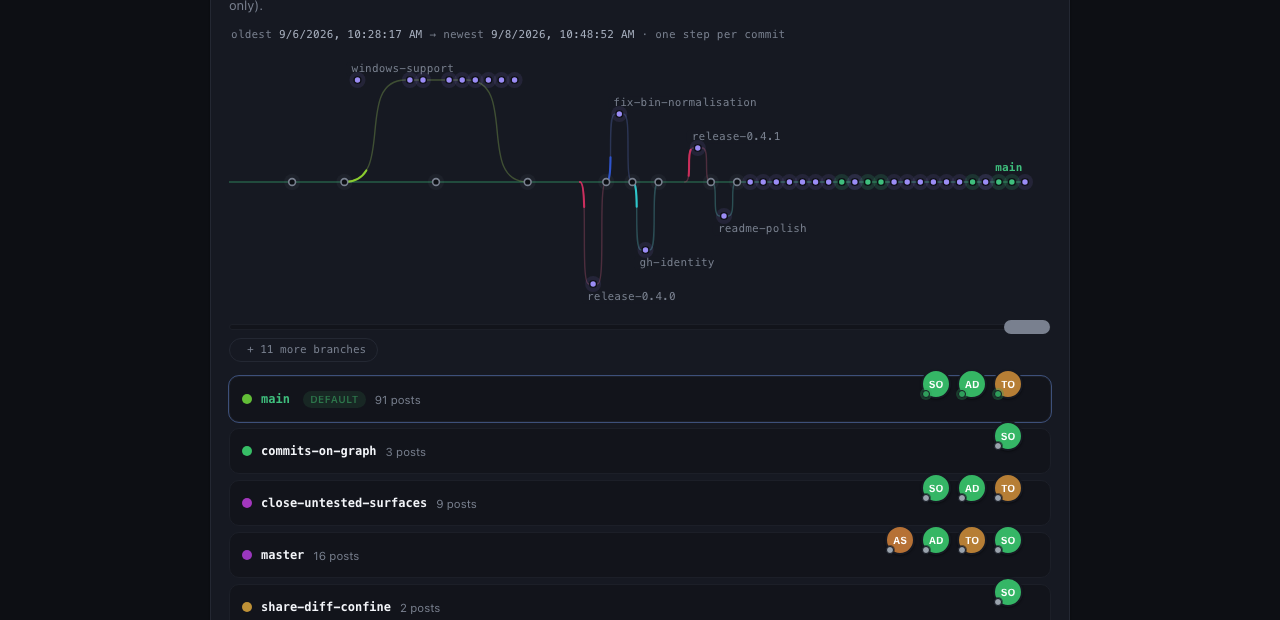
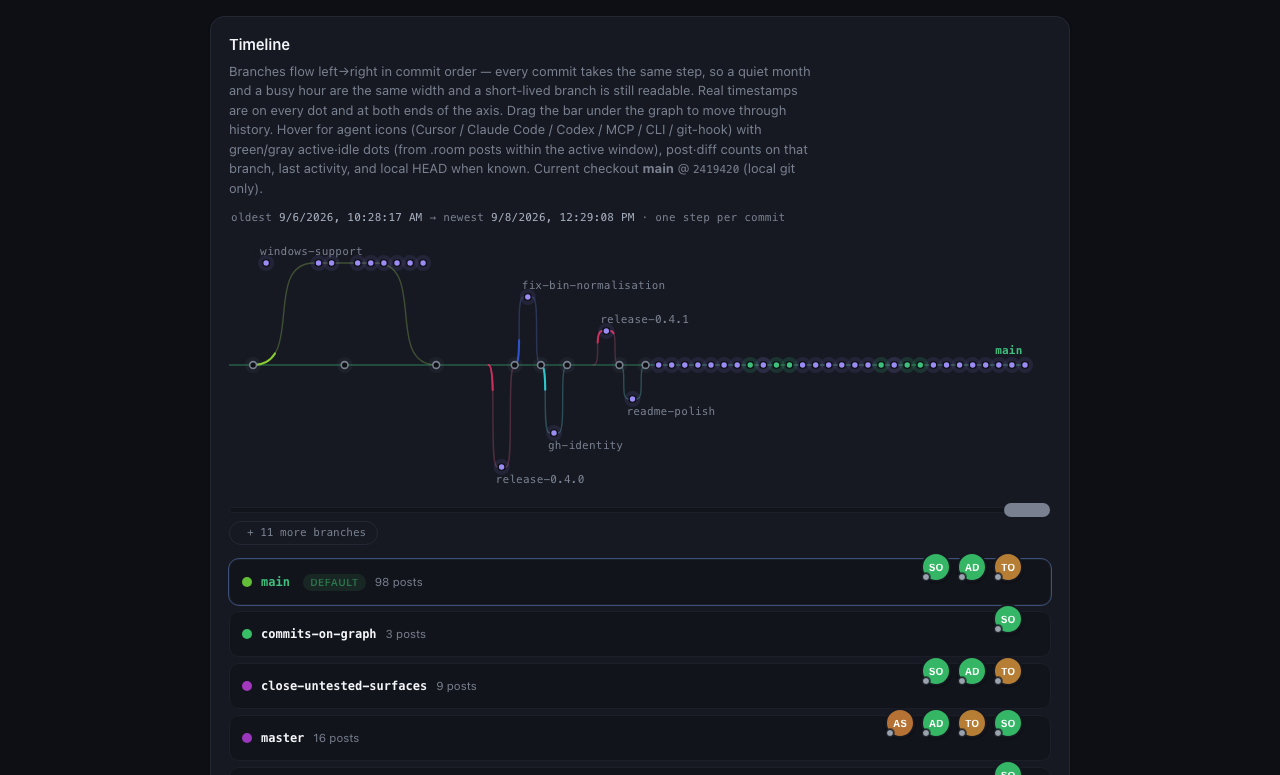
docs: refresh the screenshots, and show the badge the tool makes
The two existing shots predated the history rewrite and showed the board splitting
one person into two contributors. It now reads "1 person · most by Ashwinth Reddy
(114)", which is both correct and a better advertisement for what the panel is for.

Added the badge. The README described `rooms badge --out agents.svg` and then never
showed one, which is a strange thing to do with the artifact whose whole purpose is
being pasted somewhere. `docs/screenshots/agents.svg` is generated from this
repository — Claude Opus 5 42%, Cursor 1%, unrecorded 57% — so the front page carries
the honest number rather than a mocked-up one, unrecorded segment included.

The graph shot is taken by hiding everything around the timeline rather than by
scrolling to it: headless Chrome paints at scroll 0 regardless of any programmatic
scroll, so the first attempt produced 640 pixels of empty background. Nothing is
restyled, only hidden, so the image is the real rendering.

The "You" card still shows the unlinked, unverified first-run state on purpose. It is
what someone sees on their first run, and it advertises that verification exists —
a hero showing an already-configured machine tells a newcomer nothing.

diff --git a/README.md b/README.md
@@ -40,11 +40,17 @@ Four commands, all read-only, none of which needs a room:
 | `rooms week` | what shipped this week and which agent helped, against last week |
 | `rooms branch` | the mix for the commits on this branch — read it before you open the PR |
 | `rooms file src/auth.ts` | who and which agent last touched a file that looks wrong |
-| `rooms badge --out agents.svg` | a stacked bar for your README |
+| `rooms badge --out agents.svg` | a stacked bar for your README — like the one below |
 
 Run them from anywhere inside the project. A repository is one project, so a command typed in
 `packages/web/src` reports the whole repo — and `rooms file app.ts` still means the file next to
 you, not one of the same name at the root.
+
+<p align="center">
+  <img src="docs/screenshots/agents.svg" alt="A stacked bar badge reading: agents — Claude Opus 5 42%, Cursor 1%, unrecorded 57%">
+</p>
+
+<p align="center"><em>This one is real, generated from this repository by <code>rooms badge</code>.</em></p>
 
 **`no agent recorded` is not `no agent used`.** Cursor and Copilot often write no
 `Co-Authored-By` trailer at all, so a plain commit only means none was recorded. Every share here is
